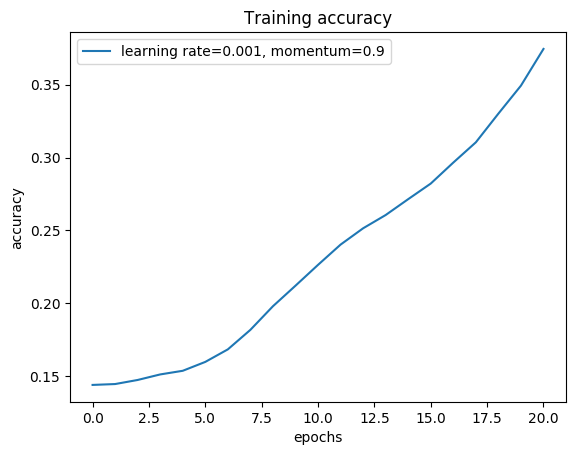
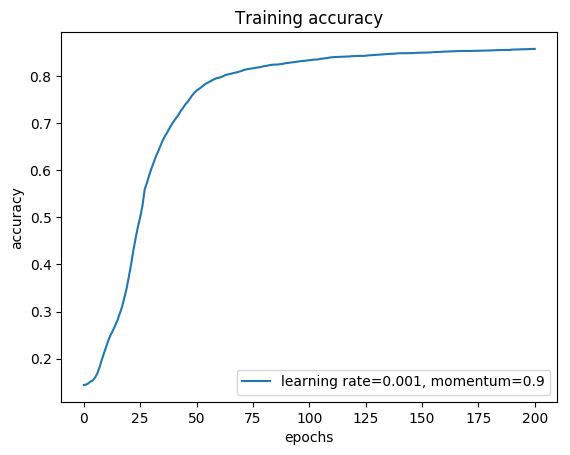
Tensorflow graph finished

diff --git a/starter.py b/starter.py
@@ -159,3 +159,42 @@ def init_weights(shape):
 
 def init_biases(size):
     return np.random.normal(loc=0, scale=np.sqrt(2 / size), size=(1, size))
+
+
+def tensorflow_net():
+    input = tf.placeholder(shape=[None, 28 * 28], dtype=tf.float32)
+    targets = tf.placeholder(shape=[None, 10], dtype=tf.float32)
+    keep_prob = tf.placeholder(dtype=tf.float32)
+    reg = tf.placeholder(dtype=tf.float32)
+    lr = tf.placeholder(dtype=tf.float32)
+
+    regularizer = tf.contrib.layers.l2_regularizer(scale=reg)
+    x = tf.reshape(input, [-1, 28, 28, 1])
+    x = tf.contrib.layers.conv2d(x, num_outputs=32, kernel_size=3, padding='same',
+                                 activation_fn=tf.nn.relu, normalizer_fn=tf.contrib.layers.batch_norm,
+                                 weights_initializer=tf.contrib.layers.xavier_initializer(),
+                                 biases_initializer=tf.contrib.layers.xavier_initializer(),
+                                 weights_regularizer=regularizer)
+    x = tf.contrib.layers.max_pool2d(x, kernel_size=2, stride=2, padding='same')
+    x = tf.reshape(x, [-1, 14 * 14 * 32])
+    x = tf.contrib.layers.fully_connected(x, num_outputs=784,
+                                          activation_fn=tf.nn.relu,
+                                          weights_initializer=tf.contrib.layers.xavier_initializer(),
+                                          biases_initializer=tf.contrib.layers.xavier_initializer(),
+                                          weights_regularizer=regularizer)
+    x = tf.nn.dropout(x, keep_prob=keep_prob)
+    x = tf.contrib.layers.fully_connected(x, num_outputs=10,
+                                          activation_fn=tf.nn.relu,
+                                          weights_initializer=tf.contrib.layers.xavier_initializer(),
+                                          biases_initializer=tf.contrib.layers.xavier_initializer(),
+                                          weights_regularizer=regularizer)
+
+    predictions = tf.nn.softmax(x)
+    loss = tf.losses.softmax_cross_entropy(targets, x)
+    l2_loss = tf.losses.get_regularization_loss()
+    loss += l2_loss
+
+    optimizer = tf.train.AdamOptimizer(learning_rate=lr)
+    optimizer_op = optimizer.minimize(loss)
+
+    return input, predictions, targets, loss, optimizer_op, lr, reg, keep_prob
